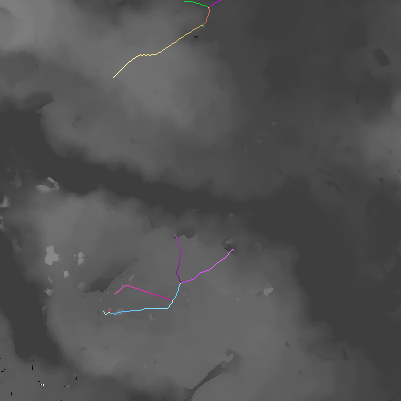
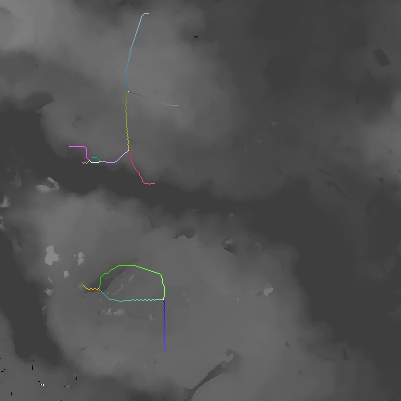
Change filters

diff --git a/world_maker/data_analysis.py b/world_maker/data_analysis.py
@@ -229,19 +229,50 @@ def highway_map() -> Image.Image:
     negative_smooth_sobel_water = subtract_map(
         negative_smooth_sobel, './world_maker/data/watermap.png')
     array_sobel_water = np.array(negative_smooth_sobel_water)
+
+    # Remove details
     array_sobel_water = ndimage.binary_erosion(
-        array_sobel_water, iterations=12)
+        array_sobel_water, iterations=5)
+
+    # Smooth non buildable area
+    array_sobel_water = filter_negative(
+        filter_smooth_array(np.array(filter_negative(array_sobel_water)), 2))
+    array_sobel_water = np.array(array_sobel_water)
+
+    # Propagate buildable area
     array_sobel_water = ndimage.binary_dilation(
         array_sobel_water, iterations=5)
-    array_sobel_water = filter_smooth_array(array_sobel_water, 5)
+
+    # Smooth buildable area
+    array_sobel_water = filter_smooth_array(array_sobel_water, 2)
+    array_sobel_water = np.array(array_sobel_water)
+
+    # Smooth non buildable area
+    array_sobel_water = filter_negative(
+        filter_smooth_array(np.array(filter_negative(array_sobel_water)), 1))
+    array_sobel_water = np.array(array_sobel_water)
+
+    # Erode buildable area
     array_sobel_water = ndimage.binary_erosion(
-        array_sobel_water, iterations=20)
-    array_sobel_water = filter_smooth_array(array_sobel_water, 6)
+        array_sobel_water, iterations=12)
+
+    # Dilate buildable area
+    array_sobel_water = ndimage.binary_dilation(
+        array_sobel_water, iterations=7)
+
+    # Smooth buildable area
+    array_sobel_water = filter_smooth_array(array_sobel_water, 20)
+    array_sobel_water = np.array(array_sobel_water)
+
     image = Image.fromarray(array_sobel_water)
-    image_no_details = filter_remove_details(image, 15)
-    image_no_details.save('./world_maker/data/highwaymap.png')
+    image.save('./world_maker/data/smooth_for_highway.png')
+
+    # Remove details
+    # image_no_details = filter_remove_details(image, 10)
+    # image_no_details.save('./world_maker/data/highwaymap.png')
+
     print("[Data Analysis] Highway map generated.")
-    return image_no_details
+    return image
 
 
 def create_volume(surface: np.ndarray, heightmap: np.ndarray, make_it_flat: bool = False) -> np.ndarray:

diff --git a/main.py b/main.py
@@ -26,13 +26,13 @@ def main():
               abs(buildArea.begin.z - buildArea.end.z) / 2)
     length_world = sqrt((center[0]*2) ** 2 + (center[1]*2) ** 2)
 
-    # remove_trees('./world_maker/data/heightmap.png', './world_maker/data/treemap.png',
-    #              './world_maker/data/smooth_sobel_watermap.png')
-    # smooth_terrain('./world_maker/data/heightmap.png',
-    #                './world_maker/data/heightmap_smooth.png', './world_maker/data/smooth_sobel_watermap.png')
+    remove_trees('./world_maker/data/heightmap.png', './world_maker/data/treemap.png',
+                 './world_maker/data/smooth_sobel_watermap.png')
+    smooth_terrain('./world_maker/data/heightmap.png',
+                   './world_maker/data/heightmap_smooth.png', './world_maker/data/smooth_sobel_watermap.png')
 
-    # set_roads(skeleton_highway, origin)
-    # set_roads(skeleton_mountain, origin)
+    set_roads(skeleton_highway, origin)
+    set_roads(skeleton_mountain, origin)
     # set_roads_grids(road_grid, origin)
     # roads.setRoads(skeleton_mountain)
     # roads.setRoads(skeleton_highway)

diff --git a/world_maker/world_maker.py b/world_maker/world_maker.py
@@ -9,10 +9,10 @@ from world_maker.pack_rectangle import generate_building
 
 
 def world_maker():
-    # world = World()
-    # heightmap, watermap, treemap = get_data(world)
+    world = World()
+    heightmap, watermap, treemap = get_data(world)
 
-    heightmap, watermap, treemap = get_data_no_update()
+    # heightmap, watermap, treemap = get_data_no_update()
 
     filter_sobel(
         "./world_maker/data/heightmap.png").save('./world_maker/data/sobelmap.png')
